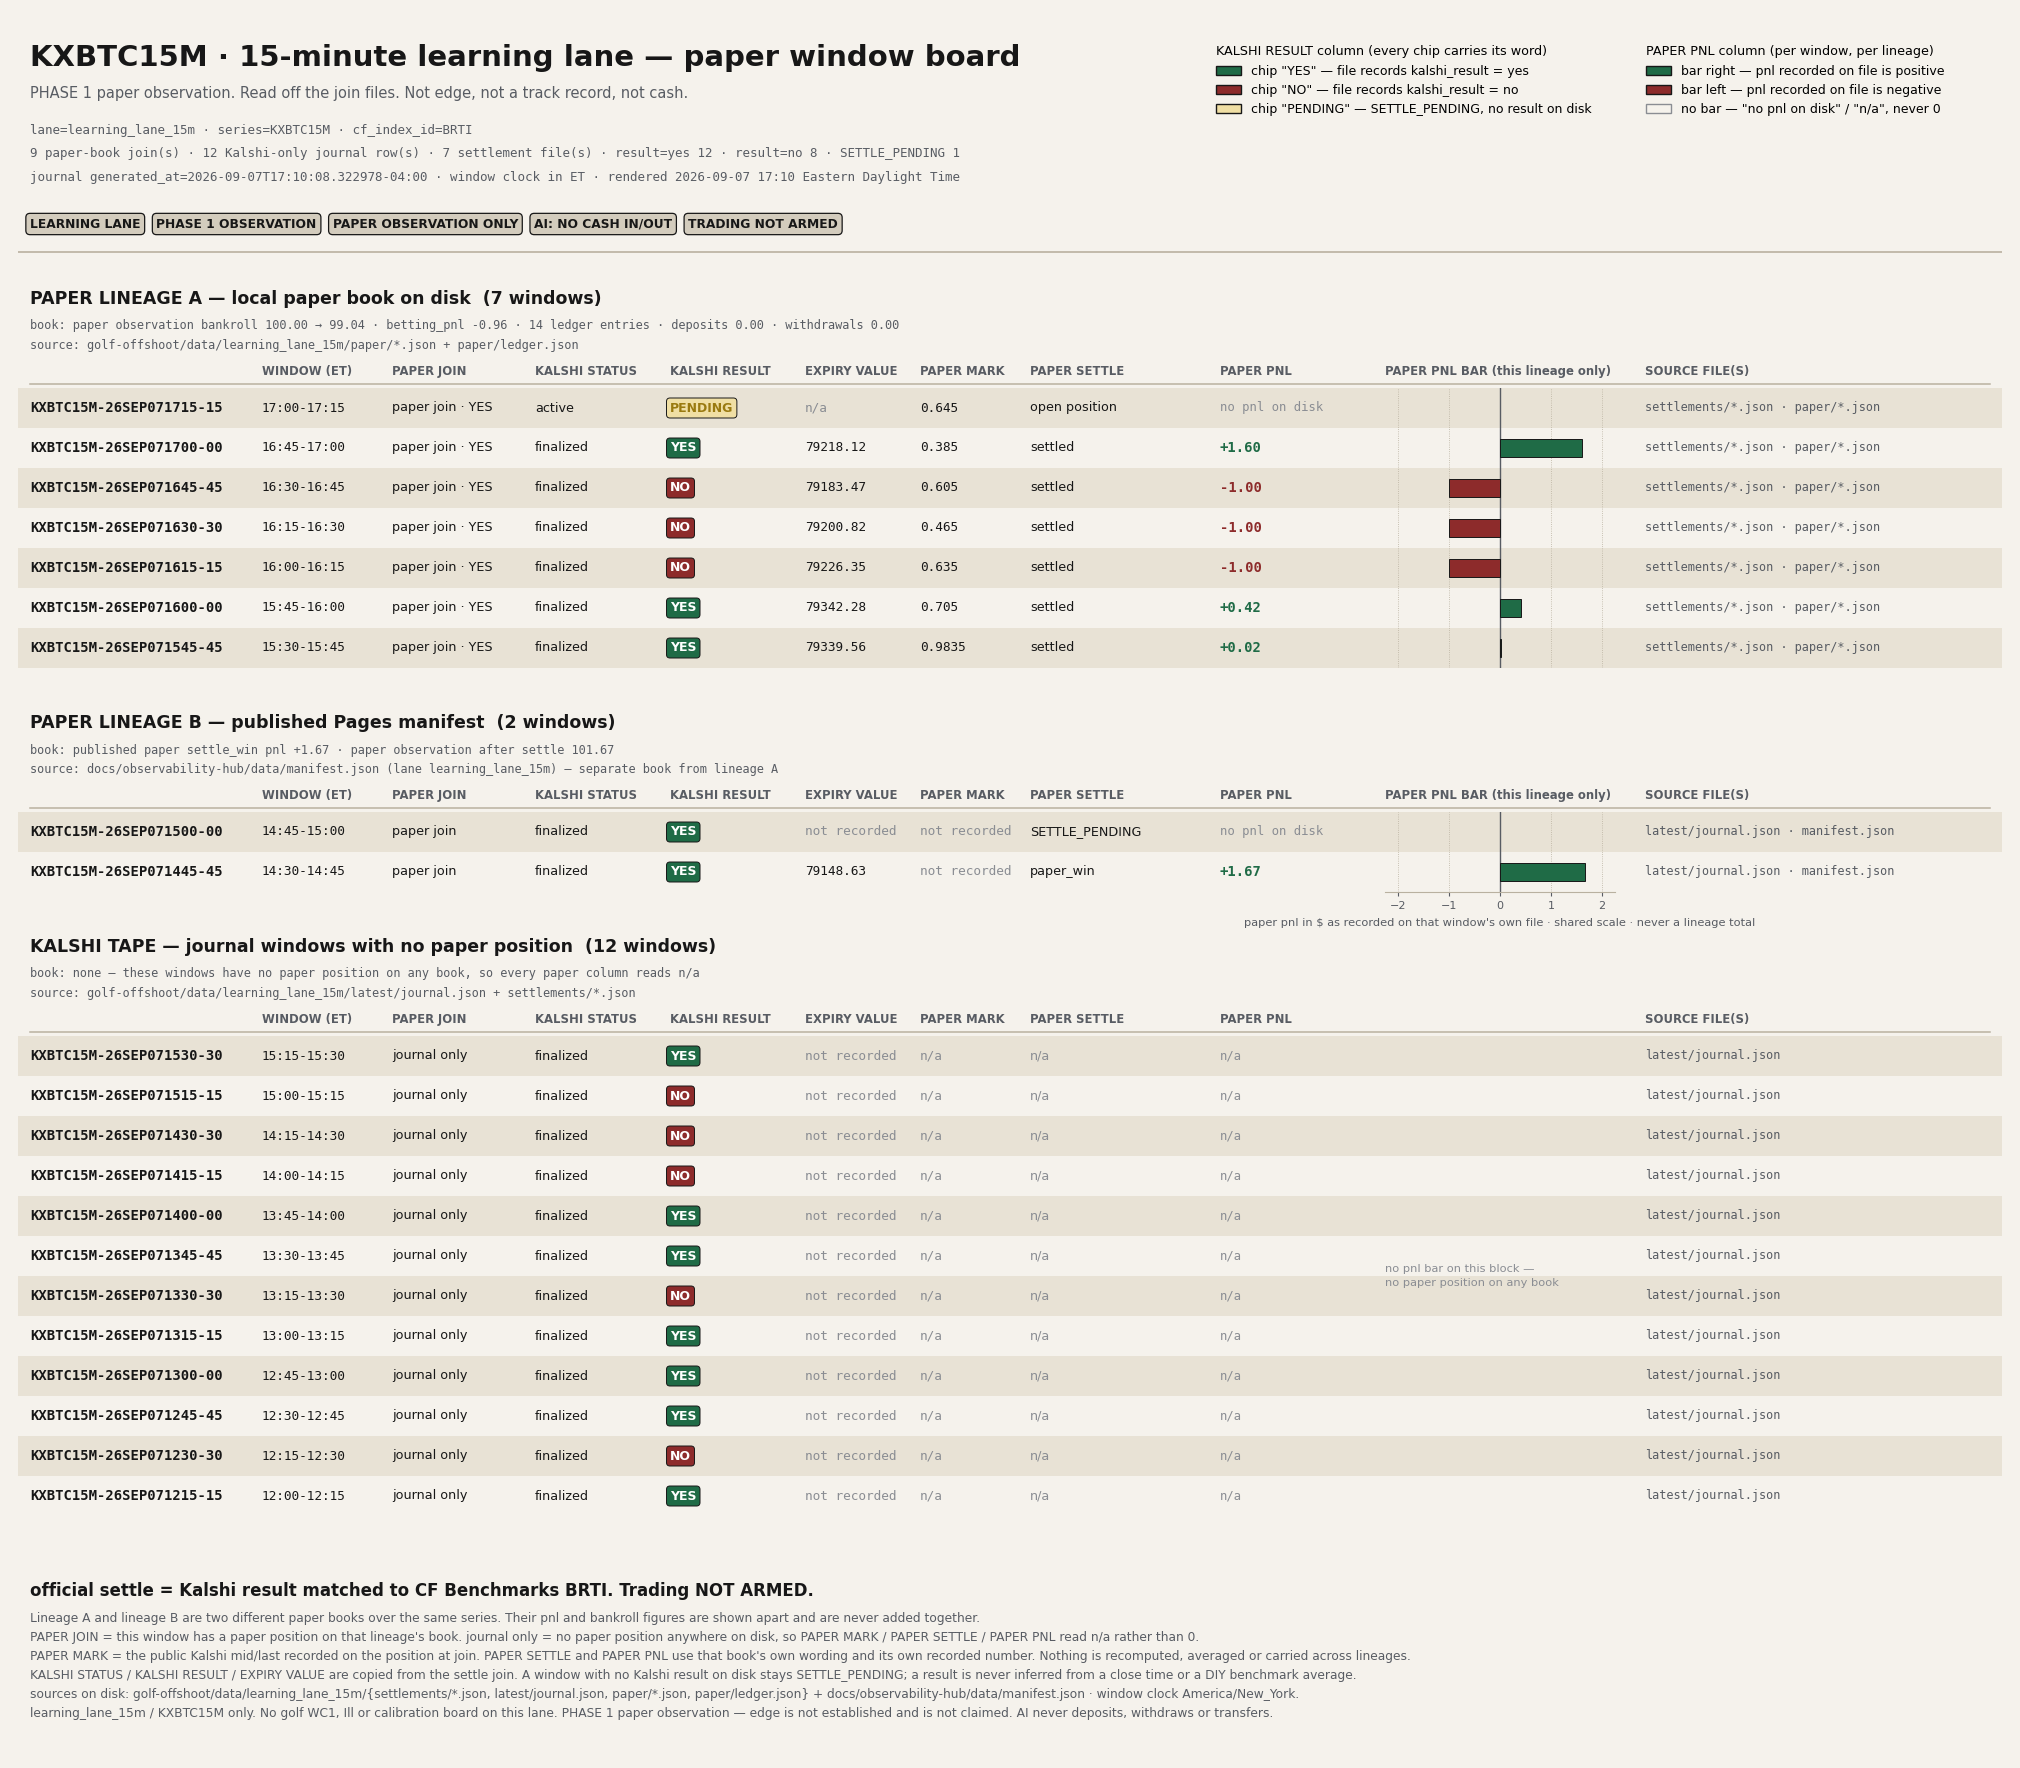
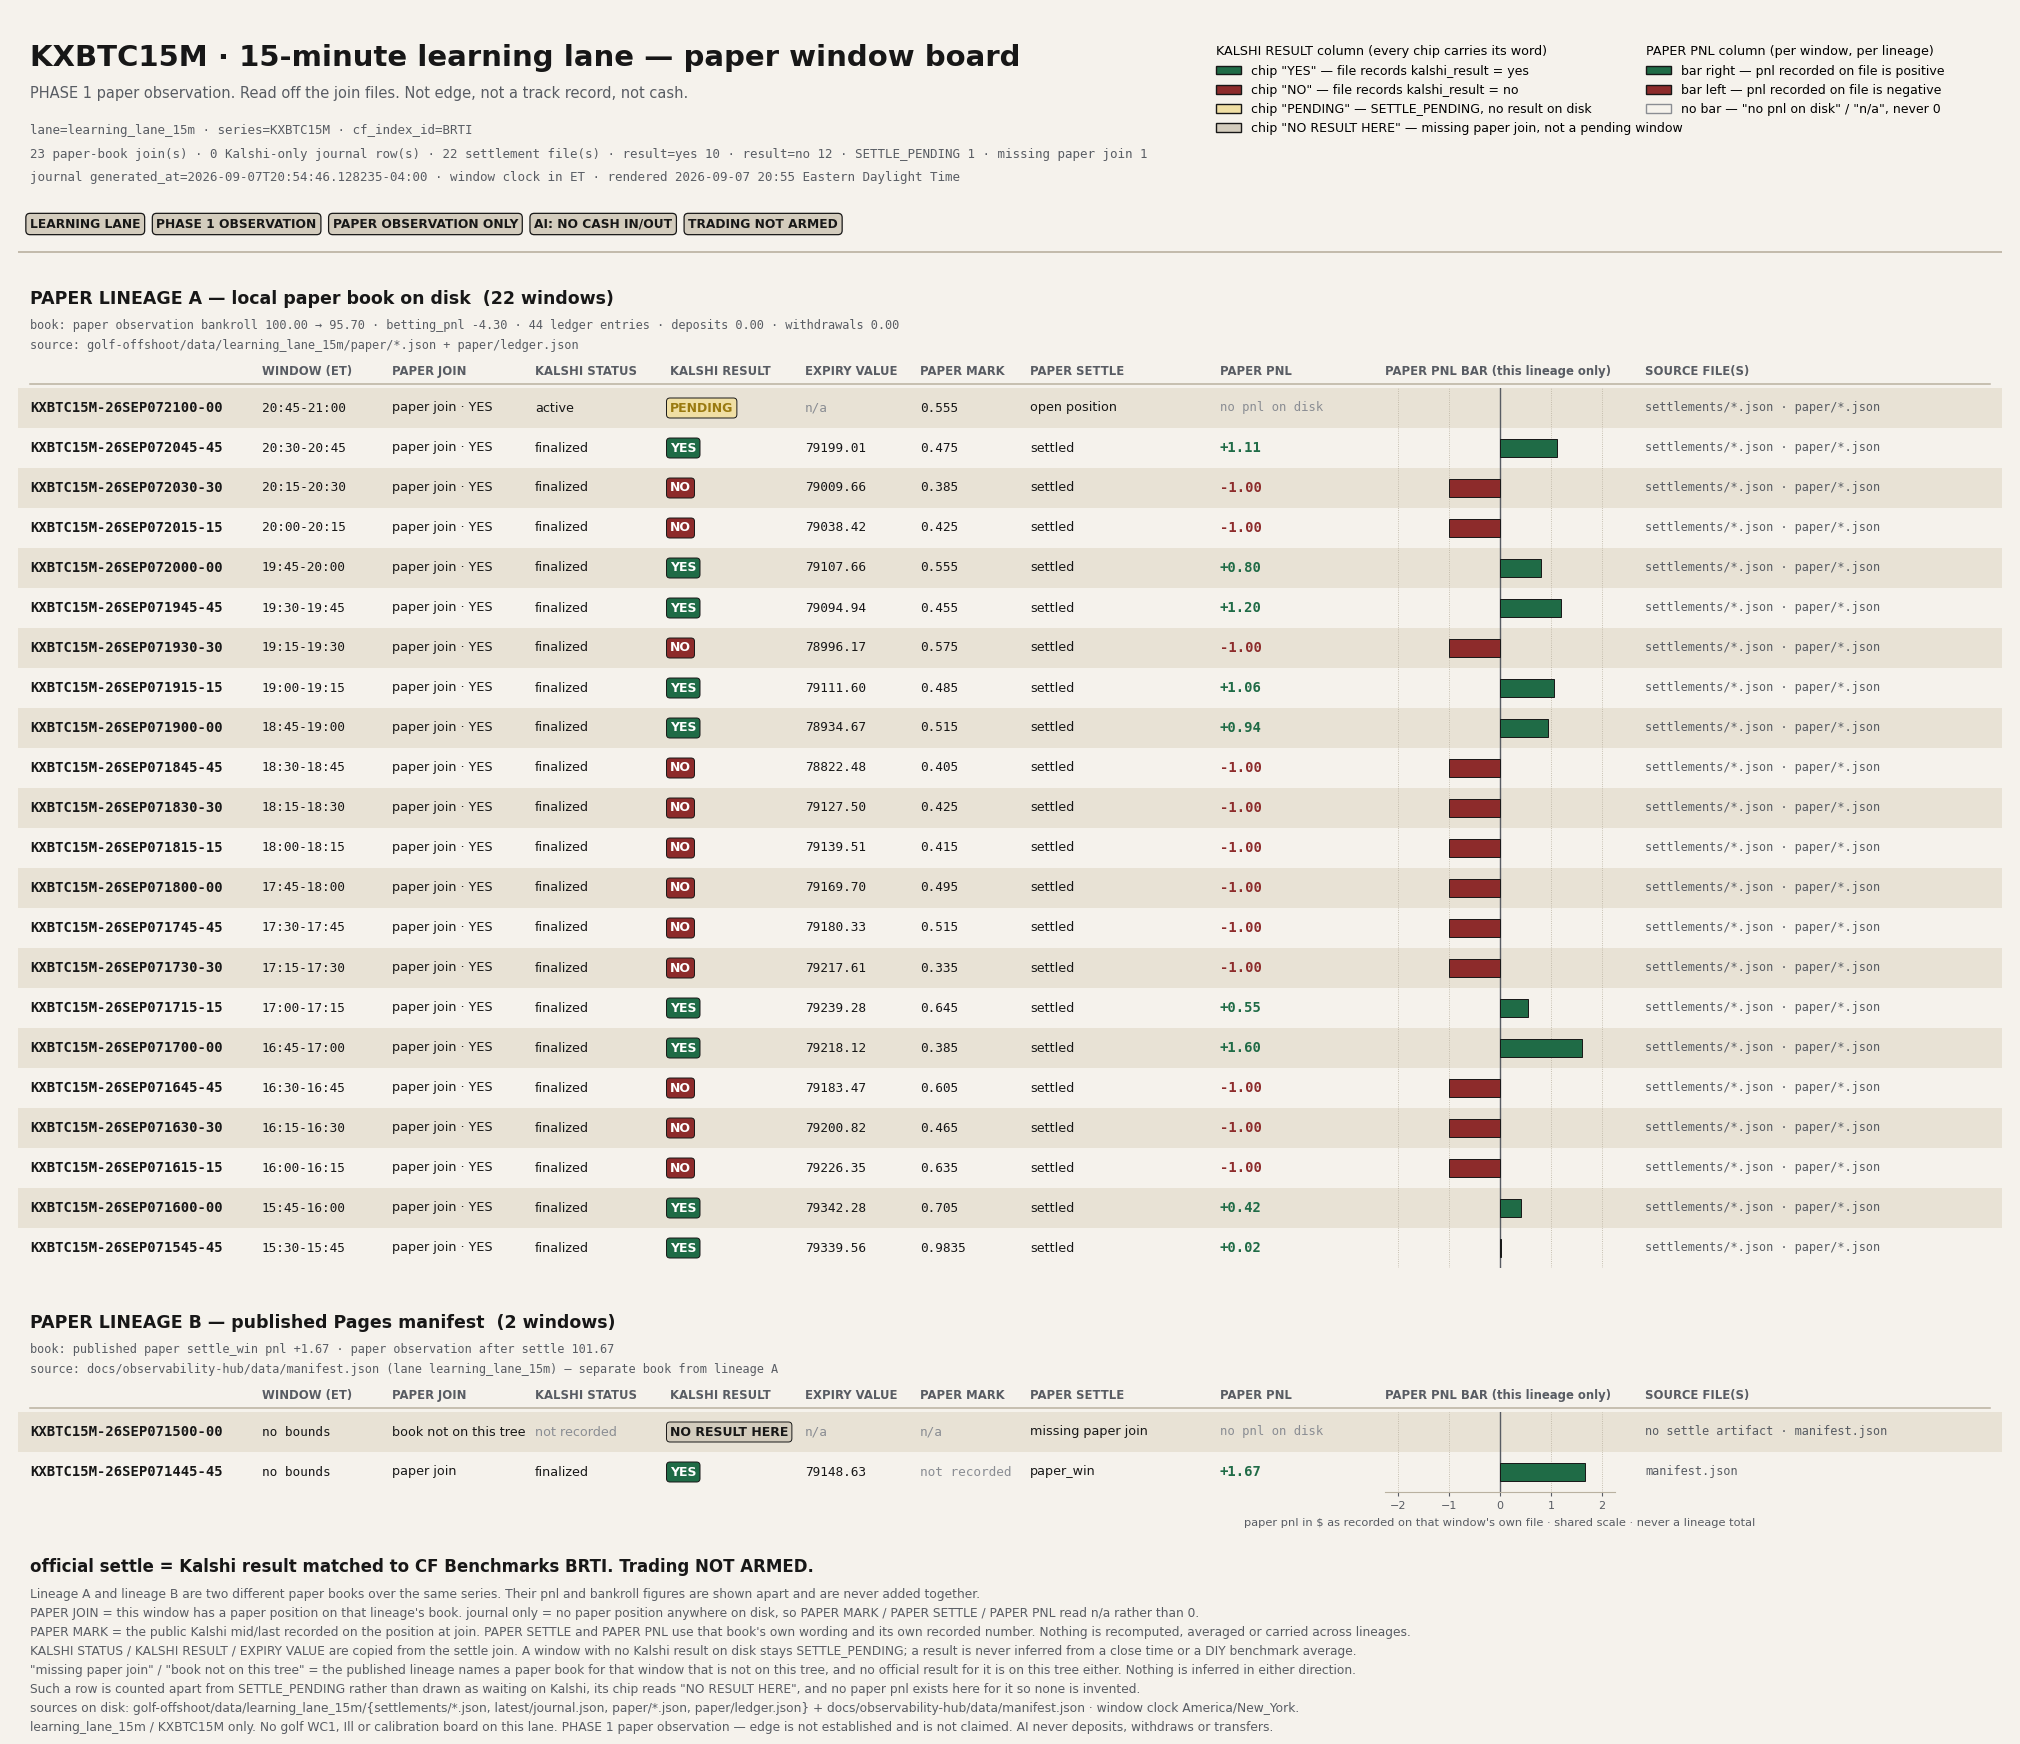
Re-render the 15m board now that the wake named Illustrator
The board was 14 windows behind the live journal. It now draws the current KXBTC15M windows from the files on disk, keeps lineage A and lineage B in separate blocks, and stops counting the 1500-00 missing paper join as pending.

diff --git a/golf-offshoot/src/golf_offshoot/learning_lane_15m/illustrate.py b/golf-offshoot/src/golf_offshoot/learning_lane_15m/illustrate.py
@@ -63,6 +63,15 @@ NO_PNL = "no pnl on disk"
 NO_PAPER = "n/a"
 PENDING_WORD = "SETTLE_PENDING"
 
+# The published manifest words a window whose paper book is not on this tree as a missing paper
+# join (``learn.MISSING_JOIN_BANNER``, LEARNING_LANE_15M_SOURCE_DIGEST.md §4a). The digest is
+# explicit that this is a missing join and *not* a pending window, so such a row is never drawn or
+# counted as a paper-book join on this tree and never folded into the SETTLE_PENDING count.
+# Doubles as the prefix matched against the published sentence, so a re-worded tail still lands here.
+MISSING_JOIN_WORD = "missing paper join"
+MISSING_JOIN_CHIP = "NO RESULT HERE"
+NO_BOOK_HERE = "book not on this tree"
+
 BG = "#f5f2ec"
 BAND = "#e8e2d5"
 INK = "#171717"
@@ -127,6 +136,8 @@ class WindowRow:
     paper_settle: str = ""
     paper_pnl: float | None = None
     paper_pnl_text: str = ""
+    #: The published lineage names a paper book for this window that is not on this tree.
+    missing_join: bool = False
 
 
 @dataclass(frozen=True)
@@ -534,6 +545,7 @@ def collect_board() -> list[Lineage]:
                 paper_settle=paper_settle,
                 paper_pnl=paper_pnl,
                 paper_pnl_text=paper_pnl_text,
+                missing_join=paper_settle.strip().lower().startswith(MISSING_JOIN_WORD),
             )
         )
 
@@ -582,6 +594,10 @@ def _result_chip(row: WindowRow) -> tuple[str, str, str]:
         return ("YES", "#ffffff", YES)
     if result == "no":
         return ("NO", "#ffffff", NO)
+    if row.missing_join:
+        # No official result for this window is on this tree. Saying PENDING here would read as
+        # "Kalshi has not settled it yet", which is a different claim than the file makes.
+        return (MISSING_JOIN_CHIP, INK, CHIP)
     return ("PENDING", PENDING, PENDING_FILL)
 
 
@@ -603,7 +619,9 @@ def _window_text(row: WindowRow, tz: Any) -> str:
 
 def _cells(row: WindowRow, tz: Any) -> dict[str, str]:
     join = "paper join" if row.paper_join else "journal only"
-    if row.paper_join and row.paper_side:
+    if row.missing_join:
+        join = NO_BOOK_HERE
+    elif row.paper_join and row.paper_side:
         join = f"paper join · {row.paper_side}"
     return {
         "ticker": row.ticker,
@@ -612,8 +630,12 @@ def _cells(row: WindowRow, tz: Any) -> dict[str, str]:
         "kalshi_status": row.kalshi_status or "not recorded",
         "kalshi_result": "",  # drawn as a labelled chip
         "expiry": row.expiry_value or ("n/a" if not row.kalshi_result else "not recorded"),
-        "mark": f"{row.paper_mark:.4g}" if row.paper_mark is not None else (NO_PAPER if not row.paper_join else "not recorded"),
-        "paper_settle": row.paper_settle or NO_PAPER,
+        "mark": f"{row.paper_mark:.4g}"
+        if row.paper_mark is not None
+        else (NO_PAPER if not row.paper_join or row.missing_join else "not recorded"),
+        # The row keeps the manifest's full sentence; the cell draws the short form because the
+        # published wording is wider than this column and the footer carries the rest.
+        "paper_settle": MISSING_JOIN_WORD if row.missing_join else (row.paper_settle or NO_PAPER),
         "paper_pnl": row.paper_pnl_text or NO_PNL,
         "source": row.settle_src,
     }
@@ -847,12 +869,15 @@ def _draw_header(
     journal = _journal()
     root = settlements_dir_15m()
     settle_files = len(list(root.glob("*.json"))) if root.is_dir() else 0
-    joins = sum(len(b.rows) for b in blocks if b.key != LINEAGE_TAPE)
+    # A missing paper join is not a join on this tree and not a pending window, so it is kept out
+    # of both counts and named in its own.
+    joins = sum(1 for b in blocks if b.key != LINEAGE_TAPE for row in b.rows if not row.missing_join)
     tape = sum(b.total for b in blocks if b.key == LINEAGE_TAPE)
     drawn = [row for block in blocks for row in block.rows]
     yes = sum(1 for row in drawn if row.kalshi_result == "yes")
     no = sum(1 for row in drawn if row.kalshi_result == "no")
-    pending = len(drawn) - yes - no
+    missing = sum(1 for row in drawn if row.missing_join and not row.kalshi_result)
+    pending = len(drawn) - yes - no - missing
 
     def from_top(y_in: float) -> float:
         return 1.0 - fy(y_in)
@@ -870,7 +895,7 @@ def _draw_header(
     lines = (
         lane_line,
         f"{joins} paper-book join(s) · {tape} Kalshi-only journal row(s) · {settle_files} settlement file(s) · "
-        f"result=yes {yes} · result=no {no} · {PENDING_WORD} {pending}",
+        f"result=yes {yes} · result=no {no} · {PENDING_WORD} {pending} · {MISSING_JOIN_WORD} {missing}",
         (f"journal generated_at={stamp}" if stamp else "journal generated_at not recorded")
         + f" · window clock in {tz_short} · rendered {datetime.now().astimezone():%Y-%m-%d %H:%M %Z}",
     )
@@ -899,6 +924,11 @@ def _draw_header(
             patch_cls(facecolor=YES, edgecolor=INK, label='chip "YES" — file records kalshi_result = yes'),
             patch_cls(facecolor=NO, edgecolor=INK, label='chip "NO" — file records kalshi_result = no'),
             patch_cls(facecolor=PENDING_FILL, edgecolor=INK, label=f'chip "PENDING" — {PENDING_WORD}, no result on disk'),
+            patch_cls(
+                facecolor=CHIP,
+                edgecolor=INK,
+                label=f'chip "{MISSING_JOIN_CHIP}" — {MISSING_JOIN_WORD}, not a pending window',
+            ),
         ],
         title="KALSHI RESULT column (every chip carries its word)",
         loc="upper left",
@@ -955,6 +985,10 @@ def _draw_footer(fig: Any, fx: Any, fy: Any, tz_long: str) -> None:
         "that book's own wording and its own recorded number. Nothing is recomputed, averaged or carried across lineages.",
         f"KALSHI STATUS / KALSHI RESULT / EXPIRY VALUE are copied from the settle join. A window with no Kalshi result "
         f"on disk stays {PENDING_WORD}; a result is never inferred from a close time or a DIY benchmark average.",
+        f'"{MISSING_JOIN_WORD}" / "{NO_BOOK_HERE}" = the published lineage names a paper book for that window that is '
+        "not on this tree, and no official result for it is on this tree either. Nothing is inferred in either direction.",
+        f"Such a row is counted apart from {PENDING_WORD} rather than drawn as waiting on Kalshi, its chip reads "
+        f'"{MISSING_JOIN_CHIP}", and no paper pnl exists here for it so none is invented.',
         f"sources on disk: golf-offshoot/data/learning_lane_15m/{{settlements/*.json, latest/journal.json, paper/*.json, "
         f"paper/ledger.json}} + {REL_MANIFEST.as_posix()} · window clock {tz_long}.",
         f"{LANE} / {SERIES} only. No golf WC1, Ill or calibration board on this lane. PHASE 1 paper observation — "
